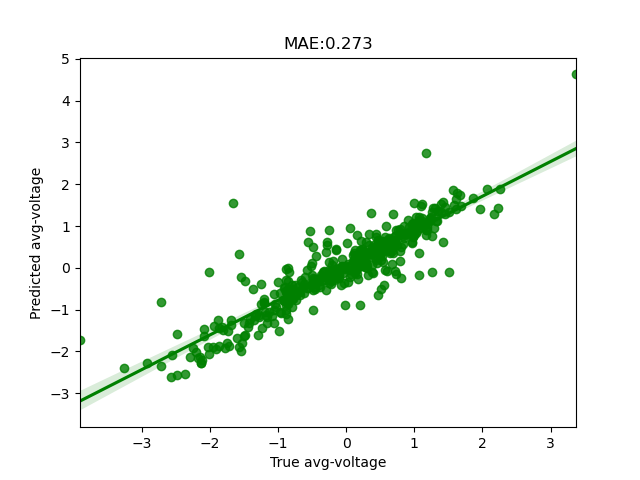
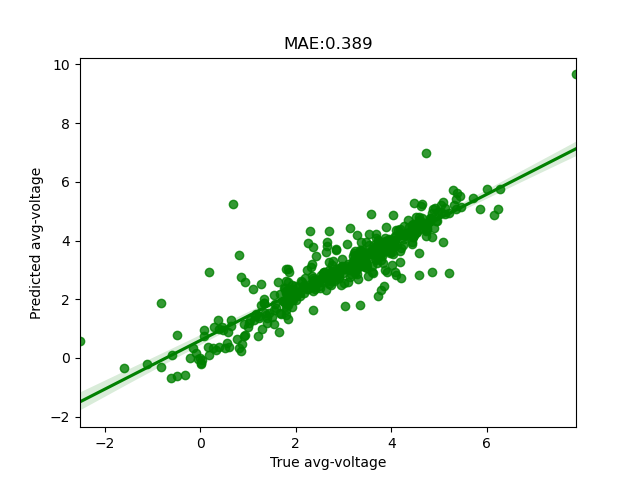
[x] minor update

diff --git a/voltage-reaction.py b/voltage-reaction.py
@@ -16,7 +16,6 @@ parser.add_argument('--train_size',default=0.8, type=float,
 parser.add_argument('--batch',default=128, type=int,
                     help='batch size to use within experinment  (default:128)')
 
-
 # MODEL PARAMETERS
 parser.add_argument('--layers',default=3, type=int,
                     help='number of AGAT layers to use in model (default:3)')
@@ -140,26 +139,40 @@ elif args.mode == 'evaluation':
     _, _, out_labels  = evaluate(model,test_loader1,test_loader2,metrics, device, with_labels=True)
 
 
-        # DENORMALIZING LABEL
+    # DENORMALIZING LABEL
     out_labels             = [torch.cat(x,-1) for x in out_labels]
     true_label, pred_label = out_labels
-    error2                 = torch_MAE(true_label, pred_label)
+    # error2                 = torch_MAE(true_label, pred_label)
 
-    # true_label, pred_label = NORMALIZER.denorm(true_label), NORMALIZER.denorm(pred_label)       
+    true_label, pred_label = NORMALIZER.denorm(true_label), NORMALIZER.denorm(pred_label)       
     true_label, pred_label =  true_label.cpu().numpy(), pred_label.cpu().numpy()
 
-    # error2                 = MAE(true_label, pred_label)
-    sns.regplot(true_label, pred_label,color='green')
+    error2                 = MAE(true_label, pred_label)
 
+    # SAVING PLOTS
+    sns.regplot(true_label, pred_label,color='green')
     plt.title(f'MAE:{error2:.3f}')
     plt.xlabel(f'True avg-voltage')
     plt.ylabel(f'Predicted avg-voltage')
     plt.savefig('RESULTS/average--voltage.png')
 
+
+    # WRITING RESULTS TO FILE
+    with open('RESULTS/voltage--prediction.csv','w') as outfile:
+        outfile.write("low_mpid,high_mpid,avg_voltage,pred_voltage\n")
+        counter = 0
+        for idx in test_idx:
+            low_mpid,high_mpid,_,_ = CRYSTAL_DATA.full_data.iloc[idx]
+            pred    = pred_label[counter]
+            newline = f'{low_mpid},{high_mpid},{true_label[counter]:.3f},{pred:.3f}\n'
+            outfile.write(newline)
+            counter+=1
+    outdf = pd.read_csv('RESULTS/voltage--prediction.csv').sort_values(by=['avg_voltage'])
+    print(outdf)    
+
 elif args.mode == 'cross-validation':
     pass
-else:
-    pass 
+
 
 
 
